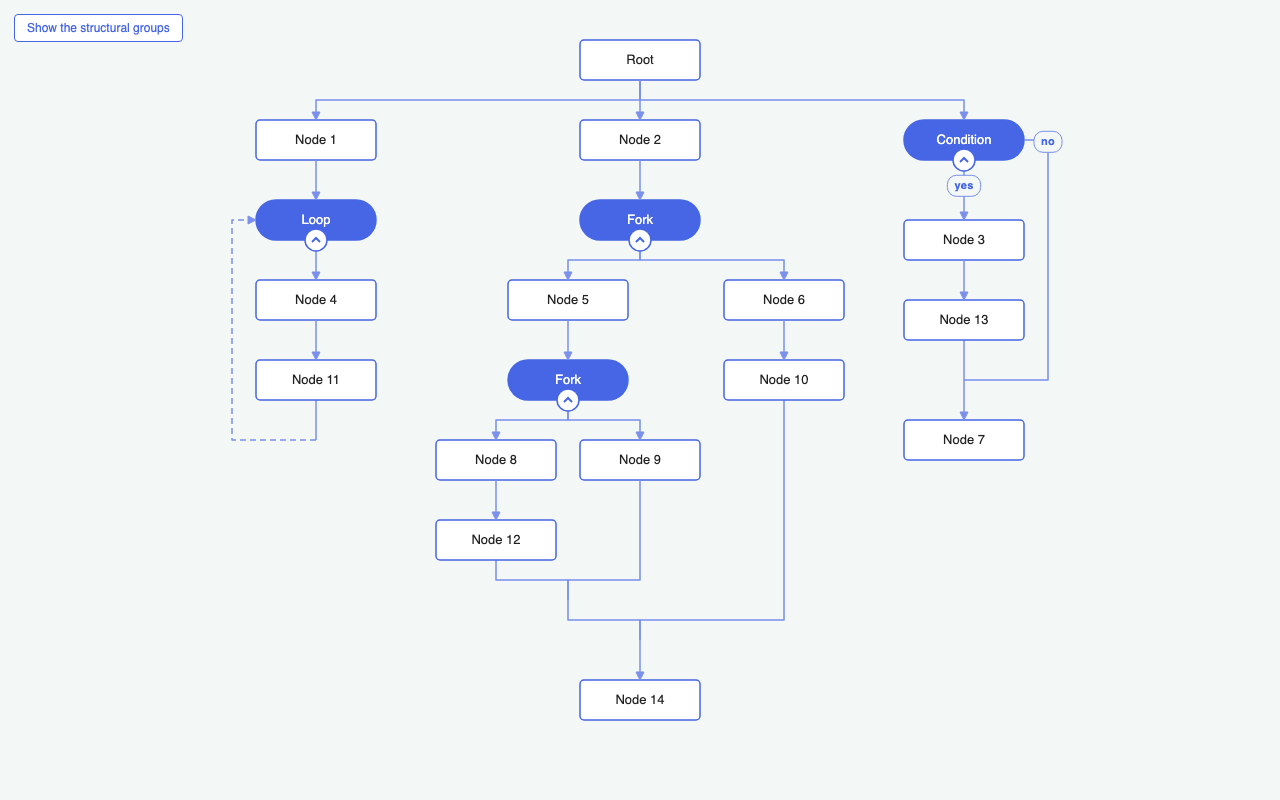
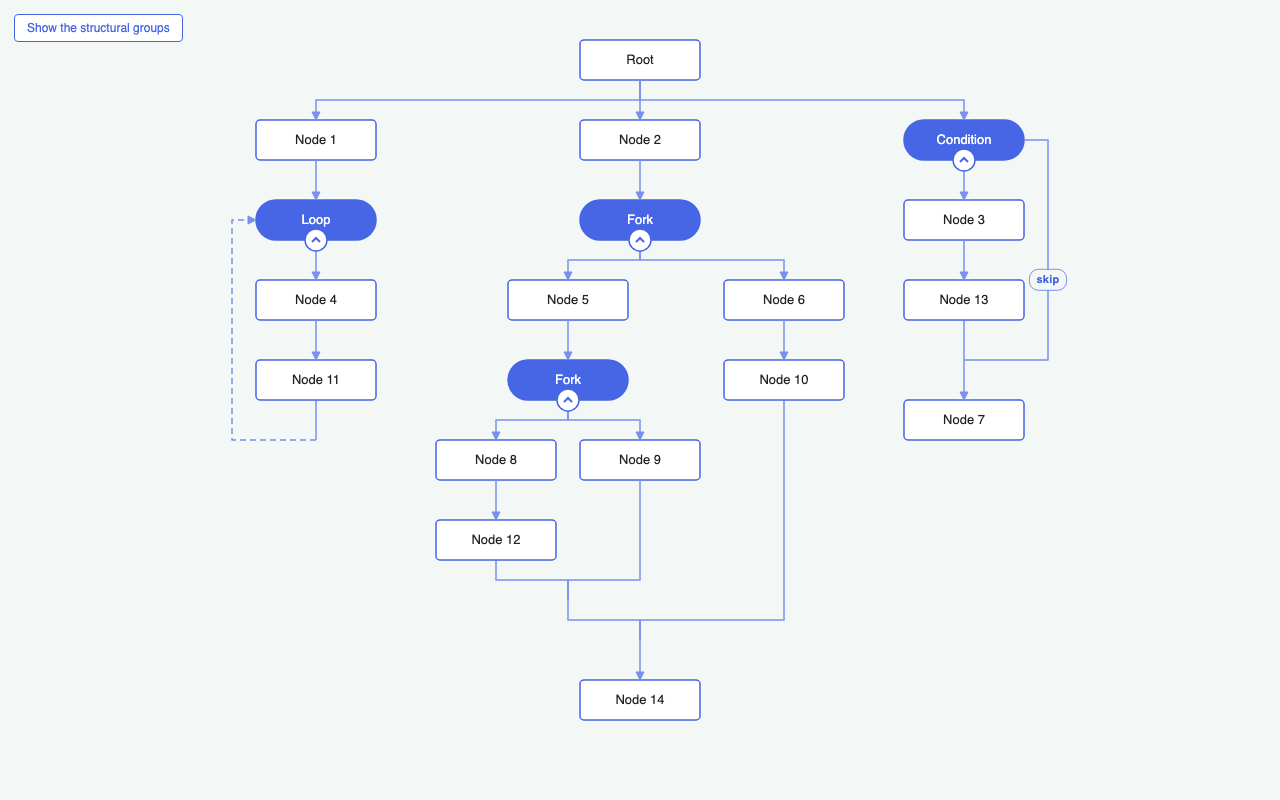
feat(tree-forks-and-loops): one label, `skip`, in the middle of the line
The way into the branch of an `if` carries no label any more: a branch
standing on the axis reads as the way taken without being told. The line
that goes past it says `skip`, in the middle of it rather than up by the
start node, where it had to share the stretch with the toggle of the
group - so the extra room that stretch was given goes too, and the
branch hangs at the gap every other child hangs at.

Changed region(s): [[0.7188, 0.2188, 0.8438, 0.4375], [0.7188, 0.4688, 0.8125, 0.5625], [0.8125, 0.1562, 0.8438, 0.1875]]

diff --git a/tree-forks-and-loops/ts/src/shapes.ts b/tree-forks-and-loops/ts/src/shapes.ts
@@ -12,13 +12,6 @@ export const LOOP_GAP = SIBLING_GAP;
 export const WIDEN_BY = 20;
 /** How far right of its content the line past the branch of an `if` group runs; the box is that much wider on each side. */
 export const IF_GAP = SIBLING_GAP;
-/**
- * Extra room between the start node of an `if` group and the first node of
- * its branch, for the `yes` label on the way in, which shares that stretch
- * with the toggle of the group. Read by the tree layout as the `offset` of
- * the branch: what an element adds to the gap from its parent.
- */
-export const IF_LABEL_GAP = 20;
 
 const COLORS = {
     node: { fill: '#FFFFFF', stroke: '#4666E5', text: '#222222' },
@@ -29,8 +22,34 @@ const COLORS = {
     background: '#F3F7F6'
 };
 
-/** How far from the start node the `yes` and `no` labels of an `if` group sit. */
-const LABEL_DISTANCE = 26;
+/**
+ * The look of the one label of the diagram: `skip`, on the line that goes
+ * past the branch of an `if` group. A chip drawn over the line - the built-in
+ * background hugs the letters, which leaves the line showing through at their
+ * edges - and centered on the line, which is where the label of a link sits
+ * unless it is told otherwise.
+ */
+const LABEL_ATTRS = (text: string) => ({
+    text: {
+        text,
+        fontFamily: 'sans-serif',
+        fontSize: 11,
+        fontWeight: 600,
+        letterSpacing: 0.3,
+        fill: COLORS.group.header
+    },
+    rect: {
+        x: 'calc(x - 7)',
+        y: 'calc(y - 4)',
+        width: 'calc(w + 14)',
+        height: 'calc(h + 8)',
+        rx: 9,
+        ry: 9,
+        fill: COLORS.background,
+        stroke: COLORS.link,
+        strokeWidth: 1
+    }
+});
 
 export type NodeRole = 'start' | 'end';
 
@@ -265,7 +284,8 @@ export class Link extends dia.Link {
      * no two ways to a node (see `layout.ts`), and it carries no arrow.
      */
     static createJoin(source: dia.Element, target: dia.Element, label?: string): Link {
-        const link = label ? Link.createBranch(source, target, label) : Link.create(source, target);
+        const link = Link.create(source, target);
+        if (label) link.labels([{ attrs: LABEL_ATTRS(label) }]);
         link.set('join', true);
         return link.withoutArrow();
     }
@@ -275,43 +295,6 @@ export class Link extends dia.Link {
         return Boolean(link.get('join'));
     }
 
-    /**
-     * A way out of the start of an `if` group, labelled: `yes` into the
-     * branch, `no` past it. The label sits a fixed distance from the start
-     * node - on the first leg of the route, before it turns - so that the two
-     * read as the two ways out of the same node.
-     */
-    static createBranch(source: dia.Element, target: dia.Element, label: string): Link {
-        const link = Link.create(source, target);
-        link.labels([{
-            position: { distance: LABEL_DISTANCE },
-            attrs: {
-                text: {
-                    text: label,
-                    fontFamily: 'sans-serif',
-                    fontSize: 11,
-                    fontWeight: 600,
-                    letterSpacing: 0.3,
-                    fill: COLORS.group.header
-                },
-                // A chip around the text, drawn over the line: the built-in
-                // background hugs the letters, which leaves the line showing
-                // through at their edges.
-                rect: {
-                    x: 'calc(x - 7)',
-                    y: 'calc(y - 4)',
-                    width: 'calc(w + 14)',
-                    height: 'calc(h + 8)',
-                    rx: 9,
-                    ry: 9,
-                    fill: COLORS.background,
-                    stroke: COLORS.link,
-                    strokeWidth: 1
-                }
-            }
-        }]);
-        return link;
-    }
 }
 
 export const cellNamespace = { Node, Group, Link };

diff --git a/tree-forks-and-loops/react/src/shapes.ts b/tree-forks-and-loops/react/src/shapes.ts
@@ -13,13 +13,6 @@ export const LOOP_GAP = SIBLING_GAP;
 export const WIDEN_BY = 20;
 /** How far right of its content the line past the branch of an `if` group runs; the box is that much wider on each side. */
 export const IF_GAP = SIBLING_GAP;
-/**
- * Extra room between the start node of an `if` group and the first node of
- * its branch, for the `yes` label on the way in, which shares that stretch
- * with the toggle of the group. Read by the tree layout as the `offset` of
- * the branch: what an element adds to the gap from its parent.
- */
-export const IF_LABEL_GAP = 20;
 
 export const NODE_TYPE = 'Node';
 export const GROUP_TYPE = 'Group';
@@ -33,8 +26,34 @@ export const COLORS = {
     background: '#F3F7F6'
 };
 
-/** How far from the start node the `yes` and `no` labels of an `if` group sit. */
-const LABEL_DISTANCE = 26;
+/**
+ * The look of the one label of the diagram: `skip`, on the line that goes
+ * past the branch of an `if` group. A chip drawn over the line - the built-in
+ * background hugs the letters, which leaves the line showing through at their
+ * edges - and centered on the line, which is where the label of a link sits
+ * unless it is told otherwise.
+ */
+const LABEL_ATTRS = (text: string) => ({
+    text: {
+        text,
+        fontFamily: 'sans-serif',
+        fontSize: 11,
+        fontWeight: 600,
+        letterSpacing: 0.3,
+        fill: COLORS.group.button
+    },
+    rect: {
+        x: 'calc(x - 7)',
+        y: 'calc(y - 4)',
+        width: 'calc(w + 14)',
+        height: 'calc(h + 8)',
+        rx: 9,
+        ry: 9,
+        fill: COLORS.background,
+        stroke: COLORS.link,
+        strokeWidth: 1
+    }
+});
 
 export type NodeRole = 'start' | 'end';
 
@@ -235,7 +254,8 @@ export class Link extends dia.Link {
      * no two ways to a node (see `layout.ts`), and it carries no arrow.
      */
     static createJoin(source: dia.Element, target: dia.Element, label?: string): Link {
-        const link = label ? Link.createBranch(source, target, label) : Link.create(source, target);
+        const link = Link.create(source, target);
+        if (label) link.labels([{ attrs: LABEL_ATTRS(label) }]);
         link.set('join', true);
         return link.withoutArrow();
     }
@@ -245,43 +265,6 @@ export class Link extends dia.Link {
         return Boolean(link.get('join'));
     }
 
-    /**
-     * A way out of the start of an `if` group, labelled: `yes` into the
-     * branch, `no` past it. The label sits a fixed distance from the start
-     * node - on the first leg of the route, before it turns - so that the two
-     * read as the two ways out of the same node.
-     */
-    static createBranch(source: dia.Element, target: dia.Element, label: string): Link {
-        const link = Link.create(source, target);
-        link.labels([{
-            position: { distance: LABEL_DISTANCE },
-            attrs: {
-                text: {
-                    text: label,
-                    fontFamily: 'sans-serif',
-                    fontSize: 11,
-                    fontWeight: 600,
-                    letterSpacing: 0.3,
-                    fill: COLORS.group.button
-                },
-                // A chip around the text, drawn over the line: the built-in
-                // background hugs the letters, which leaves the line showing
-                // through at their edges.
-                rect: {
-                    x: 'calc(x - 7)',
-                    y: 'calc(y - 4)',
-                    width: 'calc(w + 14)',
-                    height: 'calc(h + 8)',
-                    rx: 9,
-                    ry: 9,
-                    fill: COLORS.background,
-                    stroke: COLORS.link,
-                    strokeWidth: 1
-                }
-            }
-        }]);
-        return link;
-    }
 }
 
 export const cellNamespace = { Node, Group, Link };

diff --git a/tree-forks-and-loops/react/src/actions.ts b/tree-forks-and-loops/react/src/actions.ts
@@ -1,6 +1,6 @@
 import type { dia } from '@joint/plus';
 
-import { Group, IF_LABEL_GAP, Link, Node, PARENT_GAP, getGroupLabel } from './shapes';
+import { Group, Link, Node, PARENT_GAP, getGroupLabel } from './shapes';
 import type { GroupKind } from './shapes';
 
 let nodeCounter = 0;
@@ -89,14 +89,12 @@ export function createGroup(graph: dia.Graph, kind: GroupKind): Group {
     const links = kind === 'if'
         // The branch of an `if` stands on the axis like the content of any
         // other group; what makes it an `if` is the second way out of the
-        // start node, the `no` line, which skips the branch and joins the
-        // flow again at the end node - the return link of a loop, the other
-        // way round. The tree layout sees neither of the two joins.
-        ? [Link.createBranch(start, nodes[0], 'yes'), Link.createJoin(nodes[0], end), Link.createJoin(start, end, 'no')]
+        // start node, labelled `skip`, which goes past the branch and joins
+        // the flow again at the end node - the return link of a loop, the
+        // other way round. The tree layout sees neither of the two joins.
+        ? [Link.create(start, nodes[0]), Link.createJoin(nodes[0], end), Link.createJoin(start, end, 'skip')]
         : nodes.flatMap((node) => [Link.create(start, node), Link.createJoin(node, end)]);
     if (kind === 'loop') links.push(Link.createReturn(end, start));
-    // The way into the branch of an `if` is labelled, and the toggle of the group sits on it: room for both.
-    if (kind === 'if') nodes[0].set('offset', IF_LABEL_GAP);
 
     graph.addCells([group, start, ...nodes, end, ...links]);
     group.embed([start, ...nodes, end, ...links]);

diff --git a/tree-forks-and-loops/ts/src/actions.ts b/tree-forks-and-loops/ts/src/actions.ts
@@ -1,6 +1,6 @@
 import type { dia } from '@joint/plus';
 
-import { Group, IF_LABEL_GAP, Link, Node, PARENT_GAP, getGroupLabel } from './shapes';
+import { Group, Link, Node, PARENT_GAP, getGroupLabel } from './shapes';
 import type { GroupKind } from './shapes';
 
 let nodeCounter = 0;
@@ -89,14 +89,12 @@ export function createGroup(graph: dia.Graph, kind: GroupKind): Group {
     const links = kind === 'if'
         // The branch of an `if` stands on the axis like the content of any
         // other group; what makes it an `if` is the second way out of the
-        // start node, the `no` line, which skips the branch and joins the
-        // flow again at the end node - the return link of a loop, the other
-        // way round. The tree layout sees neither of the two joins.
-        ? [Link.createBranch(start, nodes[0], 'yes'), Link.createJoin(nodes[0], end), Link.createJoin(start, end, 'no')]
+        // start node, labelled `skip`, which goes past the branch and joins
+        // the flow again at the end node - the return link of a loop, the
+        // other way round. The tree layout sees neither of the two joins.
+        ? [Link.create(start, nodes[0]), Link.createJoin(nodes[0], end), Link.createJoin(start, end, 'skip')]
         : nodes.flatMap((node) => [Link.create(start, node), Link.createJoin(node, end)]);
     if (kind === 'loop') links.push(Link.createReturn(end, start));
-    // The way into the branch of an `if` is labelled, and the toggle of the group sits on it: room for both.
-    if (kind === 'if') nodes[0].set('offset', IF_LABEL_GAP);
 
     graph.addCells([group, start, ...nodes, end, ...links]);
     group.embed([start, ...nodes, end, ...links]);

diff --git a/tree-forks-and-loops/react/README.md b/tree-forks-and-loops/react/README.md
@@ -1,6 +1,6 @@
 # JointJS+: Tree Layout with Forks and Loops (React) <a href="https://www.jointjs.com/jointjs-plus"><img src="../../jointjs-plus-badge.svg" alt="JointJS+" width="123" align="right" /></a>
 
-A tree laid out by `layout.TreeLayout` in which a node can be a *group*: a container with a start node, some content and an end node. A *fork group* holds two branches that converge into the end node — a fork/join. A *loop group* holds a tree whose end node links back to the start node — a cycle, drawn as a dashed return link up the left side of the group. An *if group*, labelled *Condition*, holds one branch and a `no` line that skips it, running down the right side of the group, beside its content — the return link of a loop, the other way round. The tree connects to a group as a single node, so subgraphs that a tree layout cannot handle on its own fit into the tree. Groups nest and collapse. Built with `@joint/react-plus`.
+A tree laid out by `layout.TreeLayout` in which a node can be a *group*: a container with a start node, some content and an end node. A *fork group* holds two branches that converge into the end node — a fork/join. A *loop group* holds a tree whose end node links back to the start node — a cycle, drawn as a dashed return link up the left side of the group. An *if group*, labelled *Condition*, holds one branch and a `skip` line that goes past it, running down the right side of the group, beside its content — the return link of a loop, the other way round. The tree connects to a group as a single node, so subgraphs that a tree layout cannot handle on its own fit into the tree. Groups nest and collapse. Built with `@joint/react-plus`.
 
 ![The initial tree: a fork group with a nested fork group, a loop group and an if group](../screenshot.png)
 
@@ -8,13 +8,13 @@ A tree laid out by `layout.TreeLayout` in which a node can be a *group*: a conta
 
 - **Groups in a tree** -- a group is one node of the tree: the outer links connect to the group element, not to the start and end nodes inside it. The group is sized so that its top center is the top center of its start node and its bottom center is the bottom center of its end node -- the tree appears to connect to those two directly. The start node is the group itself, labelled with its kind, and it carries the tools of the group: the toggle, and the buttons that continue the tree past the group. The end node is a point, sized 0x0, where the branches meet again; it draws nothing, takes nothing and is drawn into without an arrow -- an arrival at a point of the layout is not an arrival at a node.
 - **Bottom-up layout** -- every group is laid out on its own with `treeLayout.layoutTree(start)`, then sized from its start to its end node, the deepest groups first. The outer tree is laid out last, once the size of every group is known.
-- **Converging branches** -- the tree layout only knows trees, so a link that joins a branch back into the flow is kept out of it: the `filter` option drops every child a *join* link leads to (`Link.createJoin()`), and with it the end node of every group, whether the link comes from the leaf of a branch or is the `no` line of an `if`. The join is then drawn by hand, a horizontal bar that mirrors the vertices the tree layout draws below a parent. The same filter drops what is hidden inside something collapsed, which takes no room in the tree either.
+- **Converging branches** -- the tree layout only knows trees, so a link that joins a branch back into the flow is kept out of it: the `filter` option drops every child a *join* link leads to (`Link.createJoin()`), and with it the end node of every group, whether the link comes from the leaf of a branch or is the `skip` line of an `if`. The join is then drawn by hand, a horizontal bar that mirrors the vertices the tree layout draws below a parent. The same filter drops what is hidden inside something collapsed, which takes no room in the tree either.
 - **Loops** -- a loop group holds a tree like a fork group does, and its end node links back to its start node: the return link, dashed as it runs against the flow, routed by hand out of the end node to the left, up the side of the group beside its content and into the start node. The tree layout treats it as a link like any other: it only follows the outbound links of the tree, and the end node is excluded, so the cycle never reaches it.
 - **Room for a link, in the box** -- the box of a loop is a gap wider than its content on both sides, and so is the box of an `if`, so that the link running down the side of either has somewhere to be. The room is part of the width on purpose. A width is geometry: every bounding box, every fit and every layout around the group accounts for it without being told. The tree layout does have attributes for exactly this, `prevSiblingGap` and `nextSiblingGap`, but they are an instruction to one layout and reach no further - and, being applied to one side, they move the element by half of what they reserve, so a group that wants room on the left has to ask for the same on the right to stay under its parent. The box costs neither.
-- **Conditional branches** -- an `if` group holds a branch like any other group, standing on the axis and growing straight down, and a second way out of its start node: the `no` line, which skips the branch and joins the flow again at the end node. It is routed by hand out of the start node to the right, down the right side of the group outside of its box and into the end node from the right -- the return link of a loop mirrored, running with the flow instead of against it. Nothing hangs beside the group, so the axis of the `if` stays under its parent and the room it asks for is one gap on each side, the same as a loop. The first node of the branch is given an `offset`, which the tree layout adds to the gap from its parent, so that the `yes` label and the toggle of the group have the stretch below the start node to themselves.
+- **Conditional branches** -- an `if` group holds a branch like any other group, standing on the axis and growing straight down, and a second way out of its start node: the `skip` line, which goes past the branch and joins the flow again at the end node. It is routed by hand out of the start node to the right, down the side of the group beside the branch and into the end node from the right -- the return link of a loop mirrored, running with the flow instead of against it. It carries the one label of the diagram, a chip in the middle of the line, and the way into the branch carries none: a branch on the axis reads as the way taken without being told. Nothing hangs beside the group, so the axis of the `if` stays under its parent and the room it asks for is one gap on each side, the same as a loop.
 - **Why the branch is not a `BR` child** -- hanging the branch to the right of the node, which is what the `BR` direction of the tree layout is for, puts the ink of the subtree on one side of its root. A layout area is centered under its parent as a whole, so the root is then pushed the other way by half of what hangs beside it: an `if` with an empty continuation sat 78px left of its parent, and reserving the same width on the empty side to correct that wasted a column as wide as the branch. A line running outside the box costs a gap instead of a column, which is why a loop already does it that way.
 - **The groups are scaffolding** -- and are off to begin with: the diagram is the tree, and a group is what the layout hangs a subgraph on. The button in the corner of the page puts the slabs of the expanded groups on the paper (`cellVisibility`), to be looked at once and switched off again. Without them the tree stands as it is: the outer links of a group end where its start and end node are, because that is how the group is sized, so nothing moves and nothing dangles. The toggle hangs on the start node, not on the slab, so it survives the switch and a group can be collapsed whether or not its slab is drawn. The layout runs on the diagram as it is, whether or not the slabs are drawn, so the switch is one `paper.updateCellsVisibility()` and no layout. It runs last in every refresh: laying the tree out brings the views back on the paper.
-- **Nested, collapsible groups** -- a node of a branch or of a loop can be a group itself, of any kind. Collapsing one hides its content (the `cellVisibility` option of the paper), the return link of a loop and the `no` line of an `if` included, and leaves its start node standing where it was: nothing changes shape or colour, the diagram simply gets shorter. The box of the group is then that node alone, so the tree is laid out again around a node-sized group.
+- **Nested, collapsible groups** -- a node of a branch or of a loop can be a group itself, of any kind. Collapsing one hides its content (the `cellVisibility` option of the paper), the return link of a loop and the `skip` line of an `if` included, and leaves its start node standing where it was: nothing changes shape or colour, the diagram simply gets shorter. The box of the group is then that node alone, so the tree is laid out again around a node-sized group.
 - **Editing** -- hover a node to add a child node, a fork group, a loop group or an `if` group below it, to make it wider, or to remove it. Removing hands the children of a node to its own parent; removing the start node of a group takes the group with its whole content, and hands on what followed the group. A node that ends a branch joins the end node of its group, so a removal moves that join up to whatever is left of the branch. The start node of a group stands in for its group: what is added there continues the tree past the group, not inside it. Inside an `if` group that leaves the branch as the only place that grows.
 
 ## Controls
@@ -39,8 +39,8 @@ A tree laid out by `layout.TreeLayout` in which a node can be a *group*: a conta
 | `src/app.tsx` | `<Diagram>` and `<Paper renderElement>`, plus the headless `<Editor>` that seeds the diagram, runs the layout, wires the events (a group's `data.collapsed` change, the hover tools) and renders the button that shows the slabs |
 | `src/render-element.tsx` | The `renderElement` callback -- renders `<Cell>` |
 | `src/cells.tsx` | `<Cell>` picks the component by `useCell(selectCellType)`; `<NodeView>` is a labelled rectangle, a pill for the start node of a group and nothing to look at for its end node, `<GroupView>` is the translucent slab |
-| `src/shapes.ts` | The `Node` and `Group` models (`ElementModel` subclasses with typed `data`; a group's `data.kind` is fork, loop or if), the JointJS `Link` (dashed for the return link of a loop, labelled for the two ways out of an `if`, marked when it joins a branch back into the flow), and the layout metrics |
-| `src/layout.ts` | The bottom-up layout: one `TreeLayout` pass per expanded group, then one for the outer tree; the routes of the two links that run inside a box beside the content, the return link of a loop and the `no` line of an `if`. Also the visibility predicates, one for the layout and one for the paper |
+| `src/shapes.ts` | The `Node` and `Group` models (`ElementModel` subclasses with typed `data`; a group's `data.kind` is fork, loop or if), the JointJS `Link` (dashed for the return link of a loop, labelled where it goes past the branch of an `if`, marked when it joins a branch back into the flow), and the layout metrics |
+| `src/layout.ts` | The bottom-up layout: one `TreeLayout` pass per expanded group, then one for the outer tree; the routes of the two links that run inside a box beside the content, the return link of a loop and the `skip` line of an `if`. Also the visibility predicates, one for the layout and one for the paper |
 | `src/actions.ts` | Adds a child node or a group of any kind below an element, removes one, keeps the new cells embedded in the enclosing group and joins every leaf of a branch to the end node it converges on |
 | `src/tools.ts` | The toggle of a group - an `elementTools.Button` shown all the time on the bottom edge of its start node - and the buttons of a hovered element |
 | `src/index.css` | Page layout |
@@ -49,7 +49,7 @@ A tree laid out by `layout.TreeLayout` in which a node can be a *group*: a conta
 
 ## How It Works
 
-1. A group embeds its start node, its content, its end node and the inner links: for a fork group two branch nodes and four links (`start → a`, `start → b`, `a → end`, `b → end`); for a loop group one node, `start → a`, `a → end` and the return link `end → start`; for an `if` group one node, `start → a`, `a → end` and the `no` line `start → end`. The outer links (`parent → group`, `group → child`) are attached to the group element.
+1. A group embeds its start node, its content, its end node and the inner links: for a fork group two branch nodes and four links (`start → a`, `start → b`, `a → end`, `b → end`); for a loop group one node, `start → a`, `a → end` and the return link `end → start`; for an `if` group one node, `start → a`, `a → end` and the `skip` line `start → end`. The outer links (`parent → group`, `group → child`) are attached to the group element.
 2. `runLayout()` sorts the expanded groups by depth, deepest first. For each of them a fresh `TreeLayout` lays out the tree that grows from the start node. Its `filter` drops the end node, so the two branches stay a tree, and its `updatePosition` moves elements with `{ deep: true }`, so a nested group carries its content along.
 3. The end node is placed below the bounding box of that tree (`treeLayout.getLayoutArea(start)`) on the vertical axis of the start node, and the links into it get two vertices forming a horizontal bar. The group is then positioned and sized by hand: from the top of the start node to the bottom of the end node, symmetric around that axis, and a gap wider than its content where a link runs down its side. With the `bbox` connection point on the model geometry (`useModelGeometry`), the outer links meet the group exactly where the start and end nodes are. The return link of a loop gets two vertices a gap left of the box of the group, on the levels of the end and the start node: it leaves the end node to the left and enters the start node from the left.
 4. A collapsed group skips all of that and is resized to its start node, which is then moved to the box the tree gave it. The paper's `cellVisibility` hides every cell that has a collapsed ancestor -- except that start node -- and every link whose end is hidden. The rest of the content keeps its positions and is found there again when the group is expanded.

diff --git a/tree-forks-and-loops/ts/README.md b/tree-forks-and-loops/ts/README.md
@@ -1,6 +1,6 @@
 # JointJS+: Tree Layout with Forks and Loops (TypeScript) <a href="https://www.jointjs.com/jointjs-plus"><img src="../../jointjs-plus-badge.svg" alt="JointJS+" width="123" align="right" /></a>
 
-A tree laid out by `layout.TreeLayout` in which a node can be a *group*: a container with a start node, some content and an end node. A *fork group* holds two branches that converge into the end node — a fork/join. A *loop group* holds a tree whose end node links back to the start node — a cycle, drawn as a dashed return link up the left side of the group. An *if group*, labelled *Condition*, holds one branch and a `no` line that skips it, running down the right side of the group, beside its content — the return link of a loop, the other way round. The tree connects to a group as a single node, so subgraphs that a tree layout cannot handle on its own fit into the tree. Groups nest and collapse.
+A tree laid out by `layout.TreeLayout` in which a node can be a *group*: a container with a start node, some content and an end node. A *fork group* holds two branches that converge into the end node — a fork/join. A *loop group* holds a tree whose end node links back to the start node — a cycle, drawn as a dashed return link up the left side of the group. An *if group*, labelled *Condition*, holds one branch and a `skip` line that goes past it, running down the right side of the group, beside its content — the return link of a loop, the other way round. The tree connects to a group as a single node, so subgraphs that a tree layout cannot handle on its own fit into the tree. Groups nest and collapse.
 
 ![The initial tree: a fork group with a nested fork group, a loop group and an if group](../screenshot.png)
 
@@ -8,13 +8,13 @@ A tree laid out by `layout.TreeLayout` in which a node can be a *group*: a conta
 
 - **Groups in a tree** -- a group is one node of the tree: the outer links connect to the group element, not to the start and end nodes inside it. The group is sized so that its top center is the top center of its start node and its bottom center is the bottom center of its end node -- the tree appears to connect to those two directly. The start node is the group itself, labelled with its kind, and it carries the tools of the group: the toggle, and the buttons that continue the tree past the group. The end node is a point, sized 0x0, where the branches meet again; it draws nothing, takes nothing and is drawn into without an arrow -- an arrival at a point of the layout is not an arrival at a node.
 - **Bottom-up layout** -- every group is laid out on its own with `treeLayout.layoutTree(start)`, then sized from its start to its end node, the deepest groups first. The outer tree is laid out last, once the size of every group is known.
-- **Converging branches** -- the tree layout only knows trees, so a link that joins a branch back into the flow is kept out of it: the `filter` option drops every child a *join* link leads to (`Link.createJoin()`), and with it the end node of every group, whether the link comes from the leaf of a branch or is the `no` line of an `if`. The join is then drawn by hand, a horizontal bar that mirrors the vertices the tree layout draws below a parent. The same filter drops what is hidden inside something collapsed, which takes no room in the tree either.
+- **Converging branches** -- the tree layout only knows trees, so a link that joins a branch back into the flow is kept out of it: the `filter` option drops every child a *join* link leads to (`Link.createJoin()`), and with it the end node of every group, whether the link comes from the leaf of a branch or is the `skip` line of an `if`. The join is then drawn by hand, a horizontal bar that mirrors the vertices the tree layout draws below a parent. The same filter drops what is hidden inside something collapsed, which takes no room in the tree either.
 - **Loops** -- a loop group holds a tree like a fork group does, and its end node links back to its start node: the return link, dashed as it runs against the flow, routed by hand out of the end node to the left, up the side of the group beside its content and into the start node. The tree layout treats it as a link like any other: it only follows the outbound links of the tree, and the end node is excluded, so the cycle never reaches it.
 - **Room for a link, in the box** -- the box of a loop is a gap wider than its content on both sides, and so is the box of an `if`, so that the link running down the side of either has somewhere to be. The room is part of the width on purpose. A width is geometry: every bounding box, every fit and every layout around the group accounts for it without being told. The tree layout does have attributes for exactly this, `prevSiblingGap` and `nextSiblingGap`, but they are an instruction to one layout and reach no further - and, being applied to one side, they move the element by half of what they reserve, so a group that wants room on the left has to ask for the same on the right to stay under its parent. The box costs neither.
-- **Conditional branches** -- an `if` group holds a branch like any other group, standing on the axis and growing straight down, and a second way out of its start node: the `no` line, which skips the branch and joins the flow again at the end node. It is routed by hand out of the start node to the right, down the right side of the group outside of its box and into the end node from the right -- the return link of a loop mirrored, running with the flow instead of against it. Nothing hangs beside the group, so the axis of the `if` stays under its parent and the room it asks for is one gap on each side, the same as a loop. The first node of the branch is given an `offset`, which the tree layout adds to the gap from its parent, so that the `yes` label and the toggle of the group have the stretch below the start node to themselves.
+- **Conditional branches** -- an `if` group holds a branch like any other group, standing on the axis and growing straight down, and a second way out of its start node: the `skip` line, which goes past the branch and joins the flow again at the end node. It is routed by hand out of the start node to the right, down the side of the group beside the branch and into the end node from the right -- the return link of a loop mirrored, running with the flow instead of against it. It carries the one label of the diagram, a chip in the middle of the line, and the way into the branch carries none: a branch on the axis reads as the way taken without being told. Nothing hangs beside the group, so the axis of the `if` stays under its parent and the room it asks for is one gap on each side, the same as a loop.
 - **Why the branch is not a `BR` child** -- hanging the branch to the right of the node, which is what the `BR` direction of the tree layout is for, puts the ink of the subtree on one side of its root. A layout area is centered under its parent as a whole, so the root is then pushed the other way by half of what hangs beside it: an `if` with an empty continuation sat 78px left of its parent, and reserving the same width on the empty side to correct that wasted a column as wide as the branch. A line running outside the box costs a gap instead of a column, which is why a loop already does it that way.
 - **The groups are scaffolding** -- and are off to begin with: the diagram is the tree, and a group is what the layout hangs a subgraph on. The button in the corner of the page puts the slabs of the expanded groups on the paper (`cellVisibility`), to be looked at once and switched off again. Without them the tree stands as it is: the outer links of a group end where its start and end node are, because that is how the group is sized, so nothing moves and nothing dangles. The toggle hangs on the start node, not on the slab, so it survives the switch and a group can be collapsed whether or not its slab is drawn. The layout runs on the diagram as it is, whether or not the slabs are drawn, so the switch is one `paper.updateCellsVisibility()` and no layout. It runs last in every refresh: laying the tree out brings the views back on the paper.
-- **Nested, collapsible groups** -- a node of a branch or of a loop can be a group itself, of any kind. Collapsing one hides its content (the `cellVisibility` option of the paper), the return link of a loop and the `no` line of an `if` included, and leaves its start node standing where it was: nothing changes shape or colour, the diagram simply gets shorter. The box of the group is then that node alone, so the tree is laid out again around a node-sized group.
+- **Nested, collapsible groups** -- a node of a branch or of a loop can be a group itself, of any kind. Collapsing one hides its content (the `cellVisibility` option of the paper), the return link of a loop and the `skip` line of an `if` included, and leaves its start node standing where it was: nothing changes shape or colour, the diagram simply gets shorter. The box of the group is then that node alone, so the tree is laid out again around a node-sized group.
 - **Editing** -- hover a node to add a child node, a fork group, a loop group or an `if` group below it, to make it wider, or to remove it. Removing hands the children of a node to its own parent; removing the start node of a group takes the group with its whole content, and hands on what followed the group. A node that ends a branch joins the end node of its group, so a removal moves that join up to whatever is left of the branch. The start node of a group stands in for its group: what is added there continues the tree past the group, not inside it. Inside an `if` group that leaves the branch as the only place that grows.
 
 ## Controls
@@ -37,15 +37,15 @@ A tree laid out by `layout.TreeLayout` in which a node can be a *group*: a conta
 |------|-------------|
 | `src/main.ts` | App entry point -- styles and the application start |
 | `src/app.ts` | The graph, the paper, the initial diagram, the wiring of the tools and the button that hides the slabs of the groups |
-| `src/shapes.ts` | The `Node`, `Group` and `Link` cell types and the layout metrics. A node with a `role` is a gate of a group: the start node is labelled with the kind of its group, the end node is a point of no size. A group has a `kind`, fork, loop or if; it is a translucent slab, expanded around its content or shrunk to a node labelled with its kind. The return link of a loop is a dashed `Link`, the two ways out of an `if` are `Link`s labelled `yes` and `no`, and a `Link` that joins a branch back into the flow is marked as such |
-| `src/layout.ts` | The bottom-up layout: one `TreeLayout` pass per expanded group, then one for the outer tree; the routes of the two links that run outside a box, the return link of a loop and the `no` line of an `if`, and the room kept for them. Also the visibility predicates, one for the layout and one for the paper |
+| `src/shapes.ts` | The `Node`, `Group` and `Link` cell types and the layout metrics. A node with a `role` is a gate of a group: the start node is labelled with the kind of its group, the end node is a point of no size. A group has a `kind`, fork, loop or if; it is a translucent slab, expanded around its content or shrunk to a node labelled with its kind. The return link of a loop is a dashed `Link`, the line past the branch of an `if` is a labelled `Link`, and a `Link` that joins a branch back into the flow is marked as such |
+| `src/layout.ts` | The bottom-up layout: one `TreeLayout` pass per expanded group, then one for the outer tree; the routes of the two links that run outside a box, the return link of a loop and the `skip` line of an `if`, and the room kept for them. Also the visibility predicates, one for the layout and one for the paper |
 | `src/actions.ts` | Adds a child node or a group of any kind below an element, keeping the new cells embedded in the enclosing group and joining every leaf of a branch to the end node it converges on |
 | `src/tools.ts` | The toggle of a group - an `elementTools.Button` shown all the time on the bottom edge of the start node of an expanded group, or of the slab of a collapsed one - and the four add buttons of a hovered element |
 | `src/styles.css` | Page layout |
 
 ## How It Works
 
-1. A group embeds its start node, its content, its end node and the inner links: for a fork group two branch nodes and four links (`start → a`, `start → b`, `a → end`, `b → end`); for a loop group one node, `start → a`, `a → end` and the return link `end → start`; for an `if` group one node, `start → a`, `a → end` and the `no` line `start → end`. The outer links (`parent → group`, `group → child`) are attached to the group element.
+1. A group embeds its start node, its content, its end node and the inner links: for a fork group two branch nodes and four links (`start → a`, `start → b`, `a → end`, `b → end`); for a loop group one node, `start → a`, `a → end` and the return link `end → start`; for an `if` group one node, `start → a`, `a → end` and the `skip` line `start → end`. The outer links (`parent → group`, `group → child`) are attached to the group element.
 2. `runLayout()` sorts the expanded groups by depth, deepest first. For each of them a fresh `TreeLayout` lays out the tree that grows from the start node. Its `filter` drops the end node, so the two branches stay a tree, and its `updatePosition` moves elements with `{ deep: true }`, so a nested group carries its content along.
 3. The end node is placed below the bounding box of that tree (`treeLayout.getLayoutArea(start)`) on the vertical axis of the start node, and the links into it get two vertices forming a horizontal bar. The group is then positioned and sized by hand: from the top of the start node to the bottom of the end node, symmetric around that axis, and a gap wider than its content where a link runs down its side. With the `boundary` connection point, the outer links meet the group exactly where the start and end nodes are. The return link of a loop gets two vertices a gap left of the box of the group, on the levels of the end and the start node: it leaves the end node to the left and enters the start node from the left.
 4. A collapsed group skips all of that and is resized to its start node, which is then moved to the box the tree gave it. The paper's `cellVisibility` hides every cell that has a collapsed ancestor -- except that start node -- and every link whose end is hidden. The rest of the content keeps its positions and is found there again when the group is expanded.

diff --git a/tree-forks-and-loops/README.md b/tree-forks-and-loops/README.md
@@ -1,6 +1,6 @@
 # JointJS+: Tree Layout with Forks and Loops <a href="https://www.jointjs.com/jointjs-plus"><img src="../jointjs-plus-badge.svg" alt="JointJS+" width="123" align="right" /></a>
 
-A tree laid out by `layout.TreeLayout` in which a node can be a *group*: a container with a start node, some content and an end node. A *fork group* holds two branches that converge into the end node — a fork/join. A *loop group* holds a tree whose end node links back to the start node — a cycle, drawn as a dashed return link up the left side of the group. An *if group*, labelled *Condition*, holds one branch and a `no` line that skips it, running down the right side of the group, beside its content — the return link of a loop, the other way round. The tree connects to a group as a single node, so subgraphs that a tree layout cannot handle on its own fit into the tree. Groups nest and collapse; the diagram is laid out bottom-up, the deepest groups first. The slabs of the groups are scaffolding of the layout and are off by default -- a button puts them on the paper.
+A tree laid out by `layout.TreeLayout` in which a node can be a *group*: a container with a start node, some content and an end node. A *fork group* holds two branches that converge into the end node — a fork/join. A *loop group* holds a tree whose end node links back to the start node — a cycle, drawn as a dashed return link up the left side of the group. An *if group*, labelled *Condition*, holds one branch and a `skip` line that goes past it, running down the right side of the group, beside its content — the return link of a loop, the other way round. The tree connects to a group as a single node, so subgraphs that a tree layout cannot handle on its own fit into the tree. Groups nest and collapse; the diagram is laid out bottom-up, the deepest groups first. The slabs of the groups are scaffolding of the layout and are off by default -- a button puts them on the paper.
 
 ## Available Versions
 
